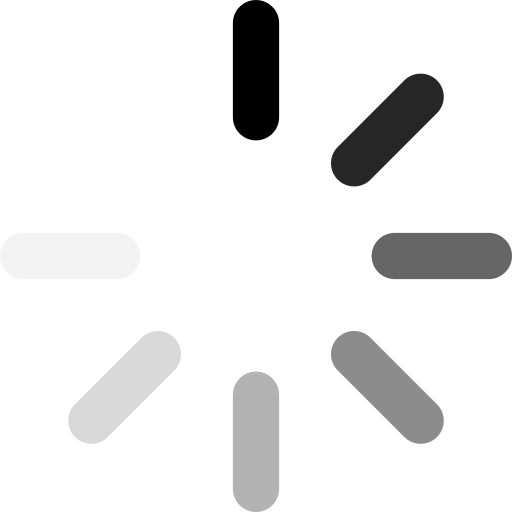
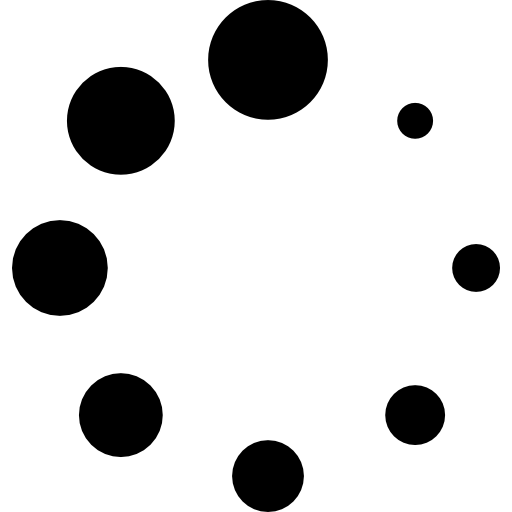
udpate the project

diff --git a/src/pages/OrderItems.tsx b/src/pages/OrderItems.tsx
@@ -1,10 +1,12 @@
 import { useEffect } from "react";
 import { useParams } from "react-router";
 import useFetchOrderItems from "../hooks/userFetchOrderItems";
+import type { CartType } from "../store/useCarts";
+import Loading from "../components/status/Loading";
 
 const OrderItems = () => {
   const { orderId } = useParams();
-  const { isLoading, fetch } = useFetchOrderItems();
+  const { isLoading, items, fetch } = useFetchOrderItems();
 
   useEffect(() => {
     (async () => {
@@ -13,16 +15,37 @@ const OrderItems = () => {
     })();
   }, []);
   return (
-    <main className="flex flex-col items-center w-full">
-      <div>
-        <h1>Products from your order cart</h1>
-        <p>{orderId}</p>
-      </div>
-      <section className="">
-        <p>{isLoading ? "loading" : "loaded"}</p>
+    <main className="flex flex-col items-center w-full mb-5">
+      <h1 className="text-lg capitalize font-semibold my-4">
+        Products from your order cart
+      </h1>
+      <section className="flex flex-col gap-2">
+        {isLoading ? (
+          <Loading />
+        ) : (
+          items.map((value: CartType) => {
+            return <OrderItem item={value} key={value.id} />;
+          })
+        )}
       </section>
     </main>
   );
 };
 
 export default OrderItems;
+
+const OrderItem = ({ item }: { item: CartType }) => {
+  return (
+    <section className="border w-[380px] md:w-[600px] lg:w-[800px] px-2 md:px-5 gap-x-5 py-2 flex shadow-md rounded-md justify-center items-center">
+      <img className="w-[100px] lg:w-[160px]" src={item.products.img} />
+      <div className="flex flex-col  gap-y-2  md:text-md">
+        <div className="text-[12px] md:text-sm line-clamp2 text-justify">
+          {item.products.title}
+        </div>
+        <div className="font-semibold self-end mr-2">
+          {item.products.textPrice}
+        </div>
+      </div>
+    </section>
+  );
+};

diff --git a/src/pages/Order.tsx b/src/pages/Order.tsx
@@ -18,31 +18,29 @@ const Order = () => {
     fetch();
   }, []);
   return (
-    <section className="flex text-sm justify-center items-start w-full relative">
-      <div className="max-w-[1200px] flex flex-col p-5 gap-5 h-[80%] overflow-auto scroll-none fixed border rounded-lg shadow-md  w-full">
-        {isLoading ? (
-          <>
-            <Loading />
-          </>
-        ) : success ? (
-          orders.length !== 0 ? (
-            orders.map((ele: OrderType, idx: number) => (
-              <OrderCard
-                key={idx}
-                id={ele.cartToken}
-                price={ele.payment}
-                status={ele.status}
-                address={ele.address}
-                date={new Date(ele.createdAt).toLocaleDateString()}
-              />
-            ))
-          ) : (
-            <Error msg="no order yet" />
-          )
+    <section className="flex flex-col h-screen text-sm items-center w-full relative gap-5 animate-fade px-5">
+      {isLoading ? (
+        <>
+          <Loading />
+        </>
+      ) : success ? (
+        orders.length !== 0 ? (
+          orders.map((ele: OrderType, idx: number) => (
+            <OrderCard
+              key={idx}
+              id={ele.cartToken}
+              price={ele.payment}
+              status={ele.status}
+              address={ele.address}
+              date={new Date(ele.createdAt).toLocaleDateString()}
+            />
+          ))
         ) : (
-          <Error msg="failed to fetch orders" />
-        )}
-      </div>
+          <Error msg="no order yet" />
+        )
+      ) : (
+        <Error msg="failed to fetch orders" />
+      )}
     </section>
   );
 };

diff --git a/src/components/orders/OrderCard.tsx b/src/components/orders/OrderCard.tsx
@@ -9,23 +9,28 @@ interface Props {
 }
 const OrderCard = ({ id, date, price, address, status }: Props) => {
   return (
-    <section className="grid grid-cols-2 grid-rows-3 flex-col w-full border gap-y-3 justify-between items-stretch p-5 rounded-lg">
-      <div className="text-[12px] place-self-end col-span-2">{date}</div>
-      <div className="line-clamp-1 hover:underline  ">
-        <Link to={`./${id}`}>{id}</Link>
-      </div>
-      <div className="text-sm place-self-end">
-        <span>₹</span>
-        <span className="italic font-[600]">{price}</span>
+    <Link
+      to={`./${id}`}
+      className=" hover:bg-slate-100 text-sm transition-all max-w-[600px] w-full flex justify-between items-center p-5 border border-slate-100  rounded-lg"
+    >
+      <div className="flex-1 flex flex-col items-start gap-5">
+        <div className="text-sm">{date}</div>
+        <span className="">{address}</span>
       </div>
 
-      <span className="line-clamp-1">{address}</span>
-      <span
-        className={`${status} place-self-end text-center font-[500] px-5 py-1 rounded-lg capitalize `}
-      >
-        {status}
-      </span>
-    </section>
+      <div className="flex-1 flex flex-col items-end  gap-5">
+        <div className="">
+          <span>₹</span>
+          <span className="italic font-[600]">{price}</span>
+        </div>
+
+        <span
+          className={`${status} text-center font-[500] px-5 py-1 rounded-lg capitalize `}
+        >
+          {status}
+        </span>
+      </div>
+    </Link>
   );
 };
 

diff --git a/src/hooks/userFetchOrderItems.tsx b/src/hooks/userFetchOrderItems.tsx
@@ -1,17 +1,18 @@
 import { useState } from "react";
 import api from "../api";
+import { CartType } from "../store/useCarts";
 const useFetchOrderItems = () => {
   const [isLoading, setLoading] = useState(false);
   const [success, setSuccess] = useState(false);
-  const [items, setItems] = useState([]);
+  const [items, setItems] = useState<CartType[]>([]);
 
   const fetch = async (cartToken: string) => {
     setLoading(true);
     try {
       const data = await api.orders.fetchOrderItems(cartToken);
-      if (data?.orderList) {
+      if (data?.cart) {
         setSuccess(true);
-        setItems(data?.orderList);
+        setItems(data?.cart);
       } else {
         setSuccess(false);
       }

diff --git a/src/components/status/Loading.tsx b/src/components/status/Loading.tsx
@@ -1,14 +1,14 @@
 const Loading = () => {
   return (
     <div
-      className="bg-red-50 fixed 
+      className="fixed 
   -translate-x-[50%] -translate-y-[50%]
  flex items-start justify-center top-[40%] left-[50%]"
     >
-      <div className="w-20 p-5">
+      <div className="w-[4.5rem] p-5">
         <img
           className="animate-spin"
-          src="   https://cdn-icons-png.flaticon.com/512/7794/7794282.png "
+          src="/assets/loading.png"
           alt="loading "
         />
       </div>

diff --git a/tailwind.config.js b/tailwind.config.js
@@ -22,6 +22,14 @@ export default {
       },
 
       keyframes: {
+        spin: {
+          from: {
+            rotate: "0deg",
+          },
+          to: {
+            rotate: "360deg",
+          },
+        },
         fadeIn: {
           from: { opacity: 0 },
           to: { opacity: 1 },

diff --git a/src/api/orders.ts b/src/api/orders.ts
@@ -9,7 +9,6 @@ const orders = {
   },
   async fetchOrderItems(cartToken: string) {
     const { data } = await axios.post("/orders/fetch", { cartToken });
-    console.log(data);
     return data;
   },
 };

diff --git a/src/api/products.ts b/src/api/products.ts
@@ -2,7 +2,6 @@ import axios from "axios";
 const products = {
   async get() {
     const { data } = await axios.post("/products/get");
-    console.log(data);
     return data;
   },
 
